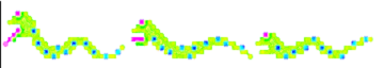
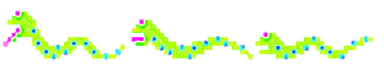
add images to game

diff --git a/engine.cpp b/engine.cpp
@@ -16,8 +16,6 @@ const int STEP_X_FROG = 64;
 const int STEP_Y_FROG = 64;
 
 
-
-
 TestEngine::TestEngine(int resx,int resy)
     :GLFrameWork(resx,resy)
 {
@@ -231,6 +229,21 @@ void TestEngine::HandleMessage(){
         _Pause = ! _Pause;  // Toggle the Pause state
         break;
     }
+}
+
+
+// ----------------------------------------------------
+// Handler für SDL_Timer, init
+// ----------------------------------------------------
+Uint32 TestEngine::_TimerCallback(Uint32, void *){
+   //  std::cout << "Timer triggered" << std::endl;
+}
+
+void TestEngine::InitTimer(Uint32 interval){
+
+
+ //   TimerID_Croc=  SDL_AddTimer(interval,_TimerCallback,nullptr);
+    // usw....
 }
 
 int TestEngine::FrogInRow(){
@@ -773,6 +786,7 @@ void TestEngine::ResetGame(){
     // Auf Startpositon
     frog->SetPosition(608,802);
 
+    snake->SetPosition(_SnakePos.x,_SnakePos.y);//  _ResX, 800);
     _DontRunAgain = false;
 }
 
@@ -852,12 +866,6 @@ void TestEngine::Run(){
                     break;
 
                 case GAMESTATE::StartUpFinished:
-                    //RenderBackgroundSprites();
-                    // RenderScore();
-                    // audio->PlayBackrgoundSound(sound_Background,1);
-                    // frog->SetPosition(608,802);
-
-                    //_ResetTimeCounter(_GameLevel);
                     ResetGame();
                     GameState= GAMESTATE::Run;
                     break;
@@ -974,18 +982,12 @@ void TestEngine::Run(){
                         RenderFrog();
                         _gameScore += 100;
                         bool tmp;
-
-                        //FrogArrived[indexFrogArrived]->MoveSprite(0,1,64,72,300,0,0,_Elapsed,tmp);
                         if (!  FrogArrived[indexFrogArrived]->AnimationDone()) {
                             FrogArrived[indexFrogArrived]->MoveSprite(0,1,64,72,300,0,0,_Elapsed,tmp);
                         }
                         else {
 
                             if (FrogArrivedDestinatons[indexFrogArrived].arrived) {
-
-                            //    FrogArrived[indexFrogArrived]->MoveSprite(0,1,64,72,300,0,0,_Elapsed,tmp);
-
-                            //  if ( FrogArrived[indexFrogArrived]->AnimationDone()) {
                                 FrogArrived[indexFrogArrived]->RenderFromAsset(1,0);
                                 GameState = GAMESTATE::StartUpFinished;
                             }
@@ -1115,6 +1117,7 @@ bool TestEngine::InitUserObjects(){
     Step_Trees_5 = 3;
 
     Step_Snake = -4;  // Right to Left...
+    _SnakePos = sPoint(_ResX,800);
 
     _StepXTurtlesRow2   = 3;
     _StepXTurtlesRow4   = 2;
@@ -1259,6 +1262,7 @@ bool TestEngine::InitUserObjects(){
     InitTreeRows();
     InitVehicles();
 
+
     // Default settings at start
     _TileX = 0;
     _TileY = 0;
@@ -1321,6 +1325,12 @@ bool TestEngine::InitUserObjects(){
     // hintergrundsound laden, etwas nervig aber witzig...!!
     sound_Background = audio->LoadBackgroundSound("/home/paul/workspace/sounds/retrogames/frogger/AudacityModiyfied/EndlessBackground.mp3");
     audio->MusicVolume(32);
+
+    // -------------------------
+    // Timer
+    // -------------------------
+    InitTimer(1000);
+
 
 
     return ret;
@@ -1431,7 +1441,7 @@ void TestEngine::StartUp(){
     _ResetScore();
 
     for (int i =0; i< FROG_DESTINATIONS; i++){ // alle angekommenen Frösche wiederrauswerfen...
-        FrogArrivedDestinatons[i].arrived = true;
+        FrogArrivedDestinatons[i].arrived = false;
     }
     // Splash screen usw anzeigen
 }

diff --git a/engine.h b/engine.h
@@ -95,6 +95,10 @@ const int TURTLE_DIVING_TILE                = 5;
 
 
 
+
+
+
+
 static GAMESTATE GameState;
 
 class TestEngine : public ENGINE::GLFrameWork
@@ -116,10 +120,19 @@ public:
 
 protected:
 
+    void InitTimer(Uint32 interval);
+
     void _ResetTimeCounter(GAMELEVEL level);
     void _ResetScore();
     string _Score2String();
     void ResetGame();
+
+    static Uint32 _TimerCallback(Uint32,void*);
+    // ID's für TimerSnapshots:
+    SDL_TimerID TimerID_Snake;
+    SDL_TimerID TimerID_Croc;
+
+    sPoint _SnakePos;
 
     CLOCK::GameClock clock;
     Logger log;
